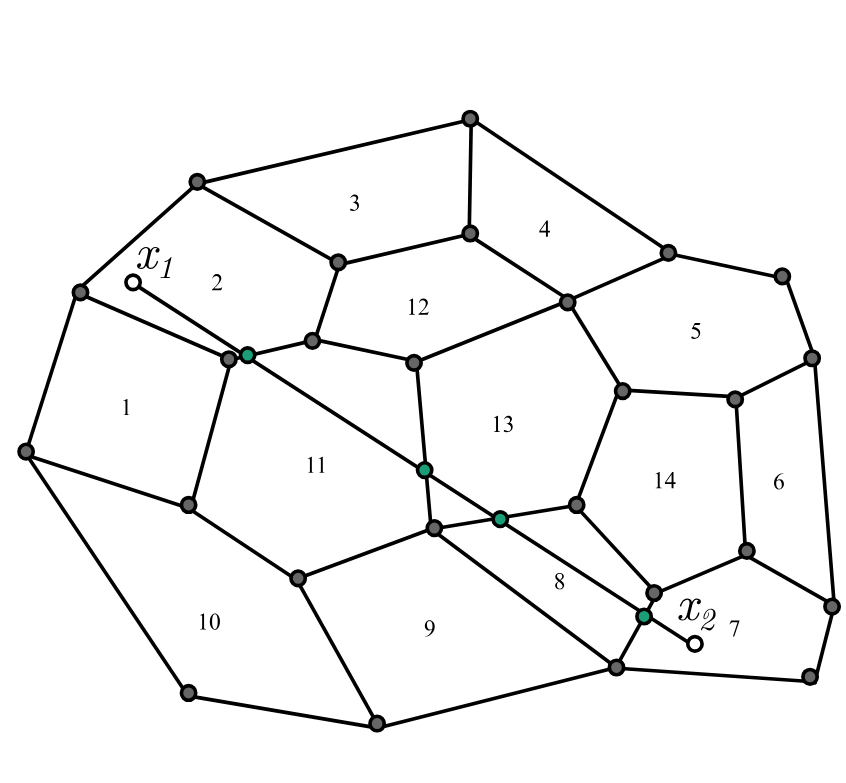
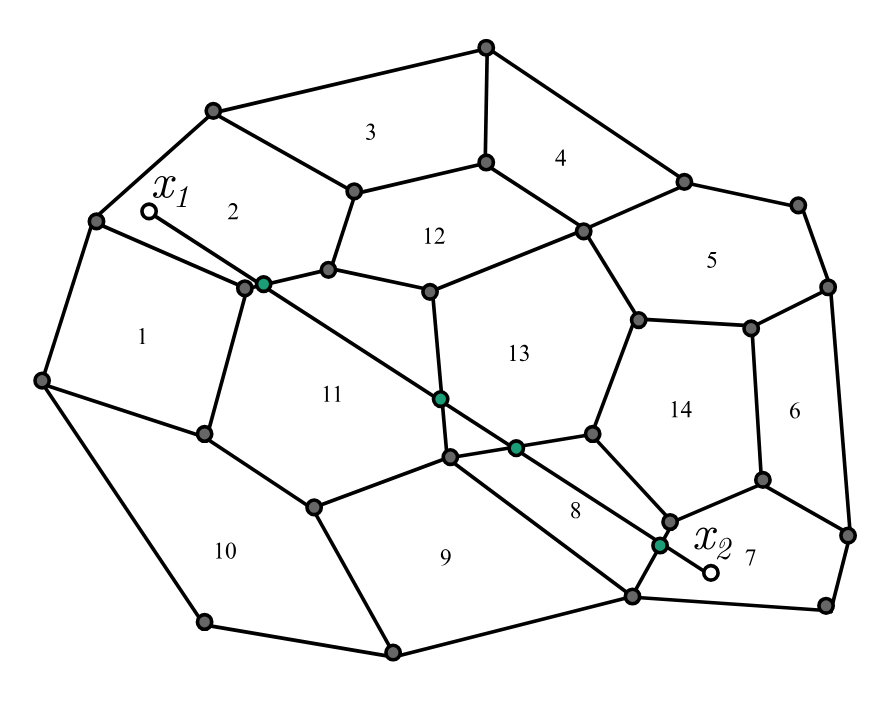
2026b

diff --git a/_pages/about.md b/_pages/about.md
@@ -21,7 +21,7 @@ social: false  # includes social icons at the bottom of the page  # Edit `_bibli
 The Barcelona Mathematics and Machine Learning (<b>b=M<sup>2</sup>L</b>) Colloquium Series aims to bring to a general audience of mathematicians, computer scientists and interested students the <b>interactions between mathematics and machine learning</b>, as well as their <b>latest developments</b>.
 
 
-What are the mathematics behind machine learning? What can machine learning do for mathematicians? <a href="sign_up">Sign up</a> to attend the <a href="2025">2025 colloquia</a>, including <b>Charles Fefferman</b>, <b>Kristin Lauter</b> and <b>Geordie Williamson</b>. Check the <a href="2024">2024</a> and <a href="2023">2023</a> editions and our <a href="https://www.youtube.com/@departamentmatematiquesuab121" target=newyou>YouTube channel</a> to watch again the talks by <b>Marc Lackenby</b>, <b>Elizabeth Munch</b>, <b>Jürgen Jost</b>, <b> Laurent Lafforgue </b>, <b>Gitta Kutyniok</b> and <b>Shing-Tung Yau</b>.
+What are the mathematics behind machine learning? What can machine learning do for mathematicians? <a href="sign_up">Sign up</a> to attend the <a href="2026">2026 colloquia</a>, including <b>Adi Shamir</b>, <b>Carlos Simpson</b> and <b>Charles Fefferman</b>. Check the <a href="2024">2024</a> and <a href="2023">2023</a> editions and our <a href="https://www.youtube.com/@departamentmatematiquesuab121" target=newyou>YouTube channel</a> to watch again the talks by <b>Marc Lackenby</b>, <b>Elizabeth Munch</b>, <b>Jürgen Jost</b>, <b> Laurent Lafforgue </b>, <b>Gitta Kutyniok</b>, <b>Shing-Tung Yau</b>, <b>Kristin Lauter</b> and <b>Geordie Williamson</b>.
 
 <!-- What are the mathematics behind machine learning? What can machine learning do for mathematicians? In 2023 we have had lectures by <b>Marc Lackenby</b>, <b>Elizabeth Munch</b> and <b>Jürgen Jost</b>. <a href="2023">Access here the recordings</a> and slides. <a href="sign_up">Sign up</a> if you wish to receive updates about the forthcoming 2024 colloquia. -->
 
